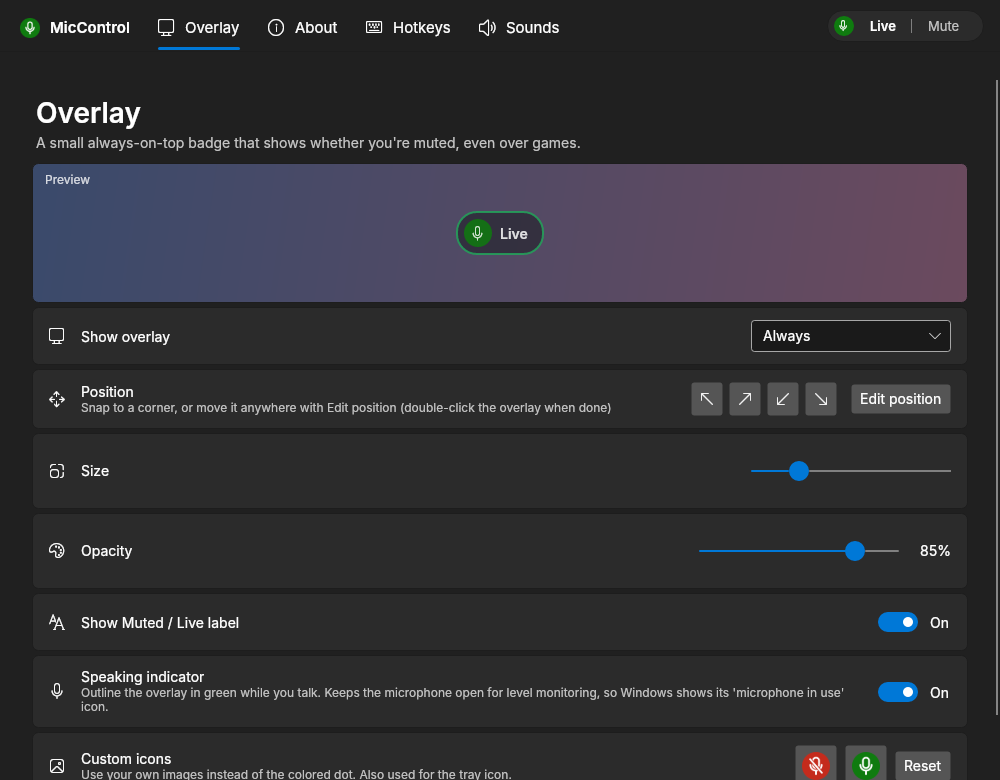
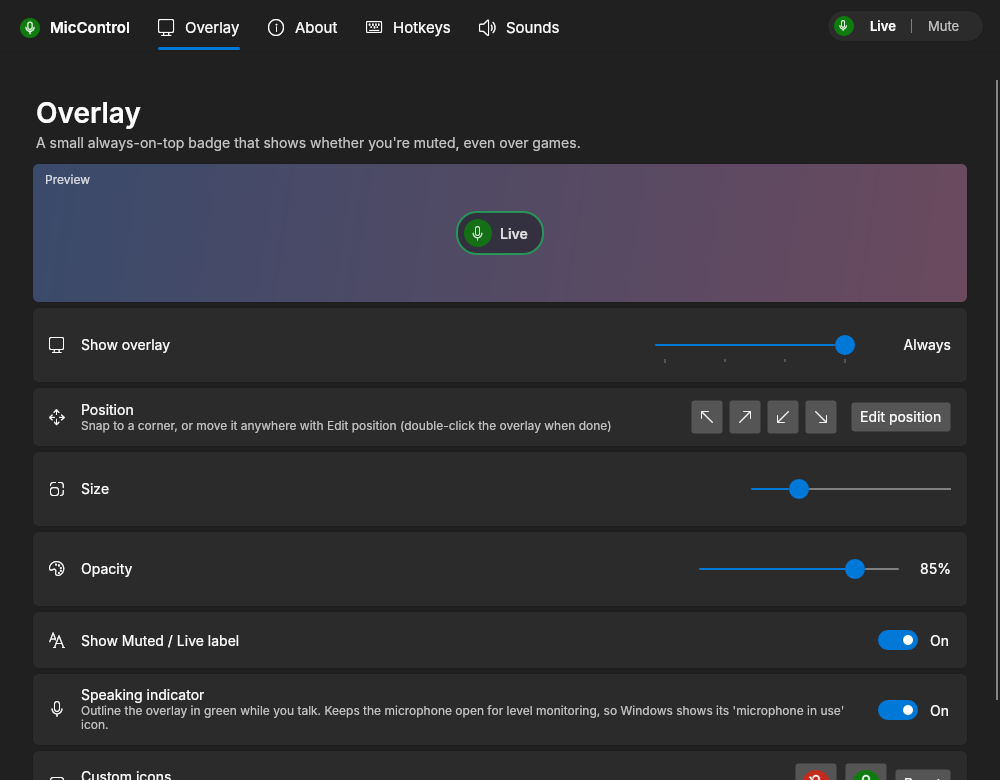
Shorter tray notice; Show overlay becomes a slider
- Tray notice: "Right-click the tray icon for quick controls or to exit. Click or double-click it to get back to the full window." (no hotkey line); setup's tip matches
- Show overlay is a four-stop slider (Never, When muted, When live, Always) with the current stop named beside it

diff --git a/Sources/MicControl.Tests/Ui/MainViewModelTests.cs b/Sources/MicControl.Tests/Ui/MainViewModelTests.cs
@@ -235,7 +235,7 @@ public sealed class MainViewModelTests
 
         Assert.True(harness.ViewModel.ShouldShowTrayNotice());
         Assert.False(harness.ViewModel.ShouldShowTrayNotice());
-        Assert.Contains("right-click the tray icon to exit", harness.ViewModel.TrayNoticeText, StringComparison.OrdinalIgnoreCase);
+        Assert.Equal("Right-click the tray icon for quick controls or to exit. Click or double-click it to get back to the full window.", harness.ViewModel.TrayNoticeText);
 
         harness.ViewModel.DismissTrayNoticeForever();
         Assert.True(harness.ViewModel.Settings.Window.TrayNoticeDismissed);
@@ -394,5 +394,26 @@ public sealed class MainViewModelTests
 
         vm.IsTrayMode = true;
         Assert.Equal(AppMode.Tray, vm.Settings.Window.AppMode);
+    }
+
+    [AvaloniaFact]
+    public void ShowOverlaySlider_StepsFromNeverToAlways()
+    {
+        using var harness = new TestHarness();
+        var vm = harness.ViewModel;
+
+        string[] names = [];
+        foreach (var step in new[] { 0.0, 1, 2, 3 })
+        {
+            vm.OverlayVisibilityStep = step;
+            Assert.Equal(step, vm.OverlayVisibilityStep);
+            names = [.. names, vm.OverlayVisibilityName];
+        }
+
+        Assert.Equal(["Never", "When muted", "When live", "Always"], names);
+        vm.OverlayVisibilityStep = 1.4; // a drag snaps to the nearest stop
+        Assert.Equal(OverlayVisibilityMode.WhenMuted, vm.OverlayVisibility);
+        vm.OverlayEnabled = false;
+        Assert.Equal(0, vm.OverlayVisibilityStep);
     }
 }

diff --git a/Sources/MicControl.UI/ViewModels/MainViewModel.Overlay.cs b/Sources/MicControl.UI/ViewModels/MainViewModel.Overlay.cs
@@ -47,9 +47,25 @@ public sealed partial class MainViewModel
             }
 
             OnPropertyChanged(nameof(OverlayEnabled));
+            OnPropertyChanged(nameof(OverlayVisibilityStep));
+            OnPropertyChanged(nameof(OverlayVisibilityName));
             OnOverlayVisibilityInputsChanged();
         }
     }
+
+    /// <summary>The Overlay page's "Show overlay" slider, from least to most shown.</summary>
+    private static readonly OverlayVisibilityMode[] VisibilitySteps =
+        [OverlayVisibilityMode.Never, OverlayVisibilityMode.WhenMuted, OverlayVisibilityMode.WhenUnmuted, OverlayVisibilityMode.Always];
+
+    /// <summary>The slider's position: Never (0) → When muted → When live → Always (3).</summary>
+    public double OverlayVisibilityStep
+    {
+        get => Array.IndexOf(VisibilitySteps, OverlayVisibility);
+        set => OverlayVisibility = VisibilitySteps[Math.Clamp((int)Math.Round(value), 0, VisibilitySteps.Length - 1)];
+    }
+
+    /// <summary>The name of the slider's current stop, shown beside it.</summary>
+    public string OverlayVisibilityName => OverlayVisibilityModes.First(m => Equals(m.Value, OverlayVisibility)).Name;
 
     /// <summary>Quick on/off switch; turning it back on restores the last visibility mode.</summary>
     public bool OverlayEnabled

diff --git a/Sources/MicControl.UI/ViewModels/MainViewModel.cs b/Sources/MicControl.UI/ViewModels/MainViewModel.cs
@@ -503,7 +503,7 @@ public sealed partial class MainViewModel : ObservableObject, IDisposable
         Save();
     }
 
-    public string TrayNoticeText => $"{AppName} is still running in the tray. Right-click the tray icon to exit.";
+    public string TrayNoticeText => "Right-click the tray icon for quick controls or to exit. Click or double-click it to get back to the full window.";
 
     public void Dispose()
     {

diff --git a/CLAUDE.md b/CLAUDE.md
@@ -64,7 +64,8 @@ System-wide microphone mute/unmute with hotkeys, an always-on-top overlay, sound
 - The tray icon is always shown. Left-click (or double-click) never changes state; it opens the full window. There is no quick popup (the developer dropped it: the right-click menu already has those controls). Right-click: Open · Mute/Unmute · Mode · Microphone · Overlay · Play sounds · Run in the tray · Start with Windows · Exit.
 - About → Advanced (always shown, between Updates and System: settings first, then the read-only details) holds the optional features, both off by default: **Custom hotkeys** (`customHotkeysEnabled`) adds the **Hotkeys** page and **Custom sounds** (`notifications.customSoundsEnabled`) adds the **Sounds** page. A switch is named "Custom X" and its page plainly "X"; keep that pattern. Their tabs come after About, in the order of the switches (Home · Overlay · About · Hotkeys · Sounds), and only show while the switch is on (`NavItems` is filtered from `AllNavItems`; a hidden page navigates Home). Off pauses custom hotkeys and plays the built-in cues at full volume on the default device (`NotificationSettings.Played*`); the user's rows and choices are kept for when it's turned back on. Basic settings (Play sounds, overlay, etc.) stay on Home.
 - Custom hotkeys are a dynamic list of key → action rows; the action list hides whatever the main key already does in the current mode.
-- Overlay is a translucent Discord inspired badge, positioned by corner presets or "Edit position" (drag); click-through otherwise.
+- Overlay is a translucent Discord inspired badge, positioned by corner presets or "Edit position" (drag); click-through otherwise. "Show overlay" is a four-stop slider, Never → When muted → When live → Always (`OverlayVisibilityStep`), not a dropdown.
+- The once-per-session tray notice (`TrayHintWindow`) says only: right-click the tray icon for quick controls or to exit; click or double-click it to get back to the full window. No mention of hotkeys.
 - The level meter and speaking indicator open the mic (OS "in use" indicator), so the meter only runs while Home/Setup is visible and the speaking indicator is opt-in.
 - App icon: the Home page's status badge, a green (`#0F7B0F`, live) or red (`#C42B1C`, muted, with a slash) circle with a white microphone outline; tray sizes (32 px and below) use a solid capsule so they stay readable. Drawn from simple shapes by `tools/GenerateAppIcons.cs` (`dotnet run tools/GenerateAppIcons.cs` from the repo root; pass a folder to also write a preview sheet), never a font glyph, so it's ours to ship. It writes `MicControl.UI/Assets/microphoneEnabled|Disabled.ico` (16-256 px: window, tray, and the live one is the exe's icon) and `.png` (256 px: sidebar). Change it by editing the generator, never the images. The window and tray use the `.ico` (`MainViewModel.CurrentWindowIcon`) unless the user picked their own overlay icons.
 - Notification sounds must be CC0/public-domain.
